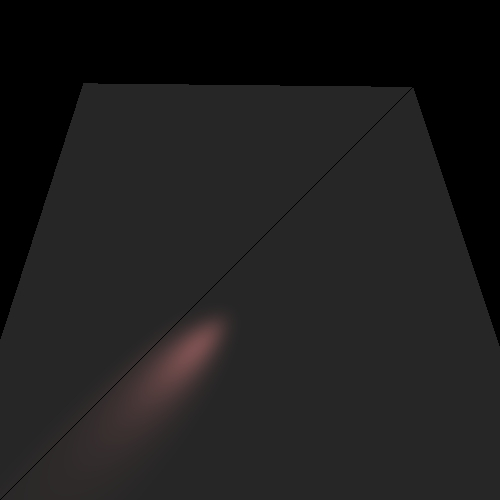
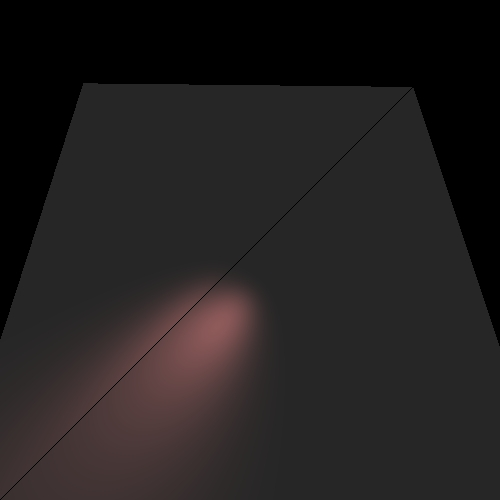
with spot

Changed region(s): [[0.06, 0.54, 0.54, 0.99]]

diff --git a/src/unittests/renderer/ReflectionRefractionTests.java b/src/unittests/renderer/ReflectionRefractionTests.java
@@ -193,7 +193,7 @@ public class ReflectionRefractionTests {
             double theta = Math.PI * 2 * (i * 1.0 / NUM_OF_POINT_LIGHT);
             scene.addLights(
                     new SpotLight(new Color(190, 30, 30),
-                            new Point3D(LIGHT_RADIUS * Math.cos(theta), LIGHT_RADIUS * Math.sin(theta), 10), new Vector(0, 0, 1),70,
+                            new Point3D(LIGHT_RADIUS * Math.cos(theta), LIGHT_RADIUS * Math.sin(theta), 10), new Vector(0, 0, 1), 70,
                             1, 0.0001, 0.000005));
         }
 
@@ -321,9 +321,9 @@ public class ReflectionRefractionTests {
         Color triangleColor = new Color(java.awt.Color.black);
         scene.addGeometries(
                 new Plane(new Color(java.awt.Color.black), new Material(0.5, 0.5, 30, 0, 0),
-                        new Point3D(0, 0, 0), new Vector(0, 0, 1)),
+                        new Point3D(0, 0, 0), new Vector(0, 0, 1))/*,
                 new Sphere(new Color(java.awt.Color.blue), new Material(0.2, 0.2, 30, 0.6, 0.4),
-                        300, new Point3D(0, 0, 300)));
+                        300, new Point3D(0, 0, 300))*/);
         final double TUBE_RADIUS = 1000;
         final int NUM_OF_TUBES = 10;
         for (int i = 0; i < NUM_OF_TUBES; ++i) {
@@ -332,7 +332,7 @@ public class ReflectionRefractionTests {
                     new Tube(new Color(109, 82, 16), new Material(0.3, 0.7, 50, 0, 0),
                             new Point3D(TUBE_RADIUS * Math.cos(theta), TUBE_RADIUS * Math.sin(theta), 10), new Vector(0, 0, 1), 100));
         }
-        Point3D[] polygonPoints = new Point3D[NUM_OF_TUBES];
+        /*Point3D[] polygonPoints = new Point3D[NUM_OF_TUBES];
         for (int i = 0; i < NUM_OF_TUBES; ++i) {
             double theta = Math.PI * 2 * (i * 1.0 / NUM_OF_TUBES);
             polygonPoints[i] = new Point3D(TUBE_RADIUS * Math.cos(theta), TUBE_RADIUS * Math.sin(theta), 10);
@@ -341,17 +341,18 @@ public class ReflectionRefractionTests {
 
         scene.addLights(new PointLight(new Color(654, 495, 96),
                 new Point3D(0, 0, 1500), 1, 4E-5, 2E-7));
-
+*/
         scene.addLights(new DirectionalLight(new Color(200, 200, 200), new Vector(-1, 1, -1)));
         final int NUM_OF_POINT_LIGHT = NUM_OF_TUBES;
-        final double LIGHT_RADIUS = TUBE_RADIUS + 110;
+        final double LIGHT_RADIUS = TUBE_RADIUS + 130;
 
         for (int i = 0; i < NUM_OF_POINT_LIGHT; ++i) {
             double theta = Math.PI * 2 * (i * 1.0 / NUM_OF_POINT_LIGHT);
-            scene.addLights(
-                    new SpotLight(new Color(190, 30, 30),
-                            new Point3D(LIGHT_RADIUS * Math.cos(theta), LIGHT_RADIUS * Math.sin(theta), 10), new Vector(0, 0, 1),10,
-                            1, 0.0001, 0.000005));
+            Point3D downPoint = new Point3D(LIGHT_RADIUS * Math.cos(theta), LIGHT_RADIUS * Math.sin(theta), 5);
+            Point3D upPoint = new Point3D(TUBE_RADIUS * Math.cos(theta), TUBE_RADIUS * Math.sin(theta), 250);
+            scene.addLights(new SpotLight(new Color(95000, 15000, 15000), downPoint,
+                    upPoint.subtract(downPoint), 10,
+                    1, 0.0001, 0.000005));
         }
         ImageWriter imageWriter = new ImageWriter("bonusTestWithSpot", 1200, 600, 3600, 1800);
         Render render = new Render(imageWriter, scene);

diff --git a/src/unittests/renderer/LightsTests.java b/src/unittests/renderer/LightsTests.java
@@ -242,7 +242,7 @@ public class LightsTests {
                         new Point3D(-150, 150, 150), new Point3D(-70, -70, 50), new Point3D(75, -75, 150)));
 
         scene.addLights(new SpotLight(new Color(500, 250, 250),
-                new Point3D(10, 10, 130), new Vector(-2, 2, 1), 70,
+                new Point3D(10, 10, 130), new Vector(-2, 2, 1), 10,
                 1, 0.0001, 0.000005));
         ImageWriter imageWriter = new ImageWriter("trianglesNarrowSpot", 200, 200, 500, 500);
         Render render = new Render(imageWriter, scene);
